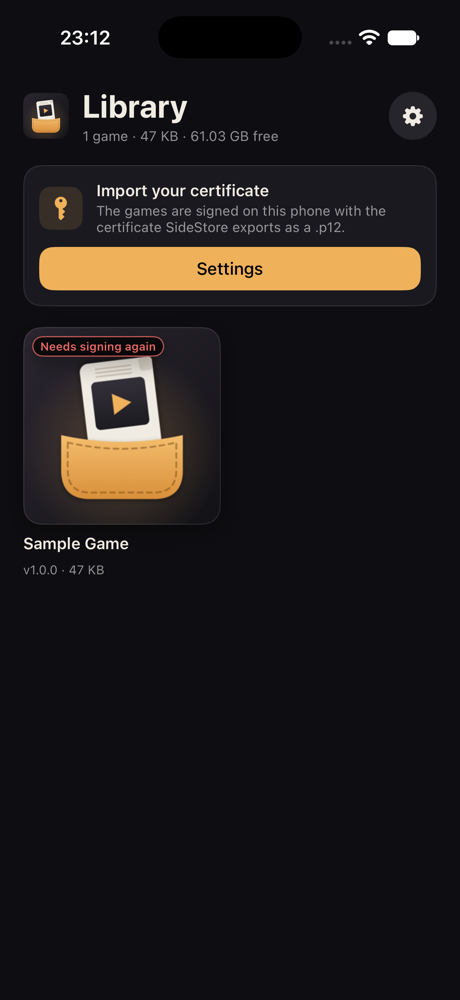
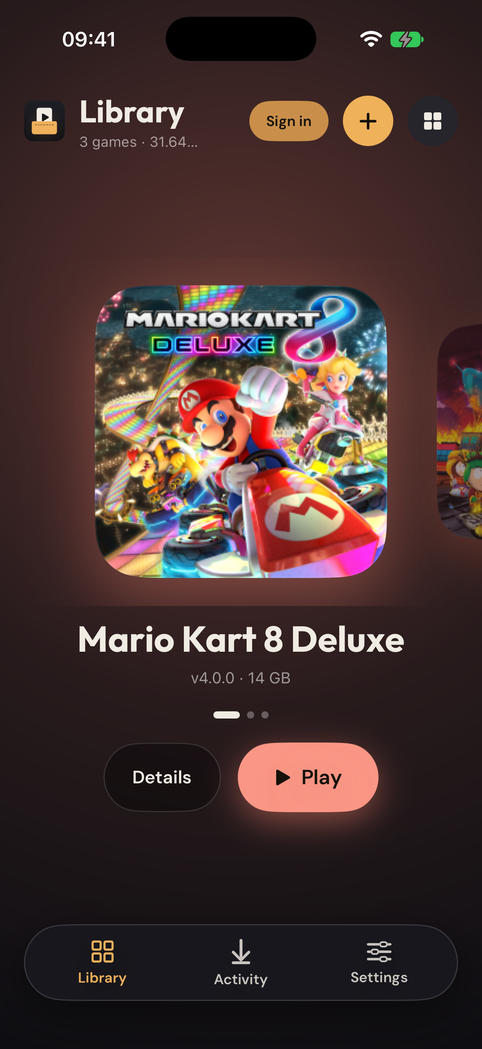
README screenshots with real games; version 0.3.0 (#3)
* README screenshots with real games; version 0.3.0

The four iPhone screenshots show the library, a game's menu, its sheet and the settings with real games (taken in the simulator, with the games'
own covers). VERSION goes to 0.3.0 so a new release can replace v0.2.1, whose SideStore source still carries the old iPorterNX name
(tools/make_source.py already writes NXPocketApple and the right bundle ID).

* Drop an author-specific engine search path; neutral names in tests

---------

diff --git a/app/Tests/NXShellHostTests/GameLinksTests.swift b/app/Tests/NXShellHostTests/GameLinksTests.swift
@@ -105,7 +105,7 @@ final class LaunchFromIconTests: XCTestCase {
     func testAScannedPairingLinkOpensASheetAndPairsNothing() async throws {
         let model = await model()
         let pin = String(repeating: "ab", count: 32)
-        let link = PairLink(address: "mac.local", port: 49217, pin: pin, secret: PairingProof.makeSecret(), name: "Momo's Mac")
+        let link = PairLink(address: "mac.local", port: 49217, pin: pin, secret: PairingProof.makeSecret(), name: "Test Mac")
         model.open(try XCTUnwrap(link.url))
         XCTAssertEqual(model.pairLink, link, "the player confirms on the sheet")
         XCTAssertTrue(model.sources.store.records.isEmpty, "nothing is added, and nothing is sent, before that")

diff --git a/core/Tests/NXPocketKitTests/PairingTests.swift b/core/Tests/NXPocketKitTests/PairingTests.swift
@@ -80,7 +80,7 @@ final class PairingAndAddressTests: XCTestCase {
     func testALinkSaysWhatTheQRCodeSaysAndNothingElseIsBelieved() throws {
         let pin = String(repeating: "ab", count: 32)
         let secret = PairingProof.makeSecret()
-        let link = PairLink(address: "Momos-Mac.local", port: 49217, pin: pin, secret: secret, name: "Momo's Mac")
+        let link = PairLink(address: "test-mac.local", port: 49217, pin: pin, secret: secret, name: "Test Mac")
         let url = try XCTUnwrap(link.url)
         XCTAssertEqual(PairLink(url: url), link, "what is shown is what is read")
 

diff --git a/mac/Sources/NXPMacKit/Toolchain.swift b/mac/Sources/NXPMacKit/Toolchain.swift
@@ -198,7 +198,6 @@ public enum ToolchainLocator {
             candidates.append(directory.appendingPathComponent("third_party/NX2Apple/engine", isDirectory: true))
             directory = directory.deletingLastPathComponent()
         }
-        candidates.append(fileManager.homeDirectoryForCurrentUser.appendingPathComponent("Documents/decomp/NX2Apple/engine"))
         // The one the setup screen fetches when none of the above is there (`FirstRunSetup.installEngine`).
         candidates.append(SetupPaths.standard.engine)
         return candidates
